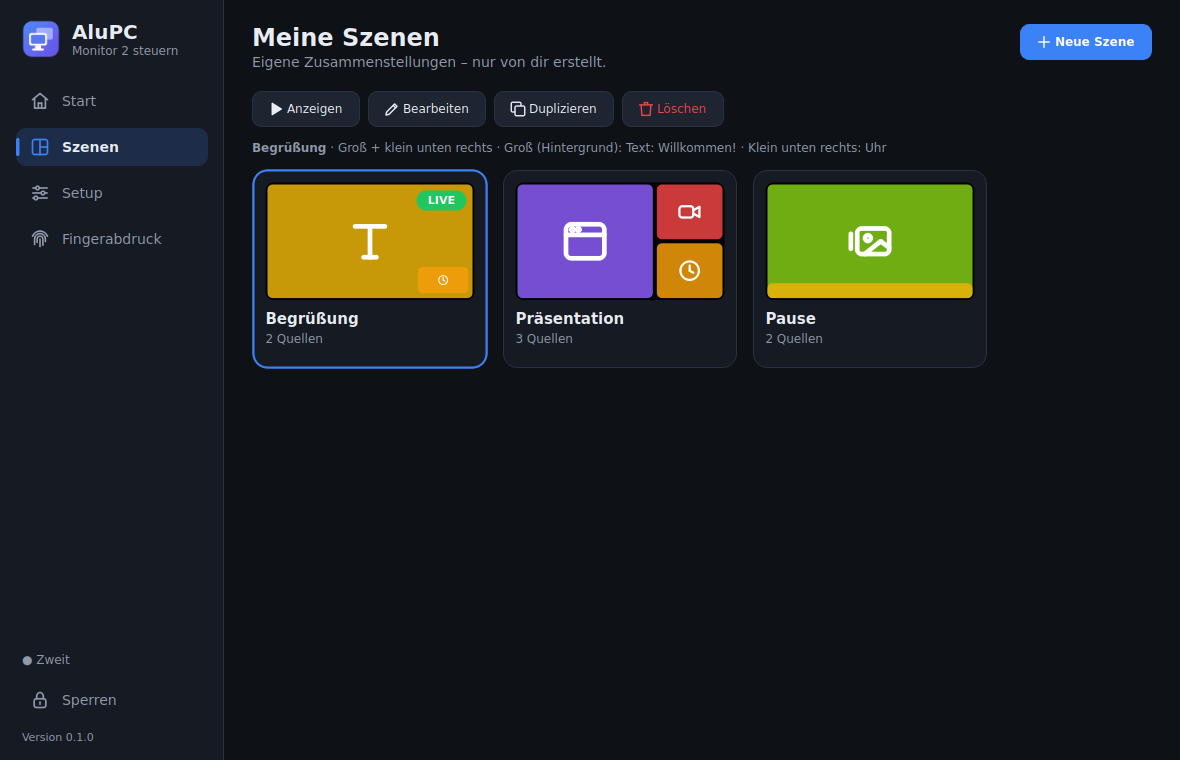
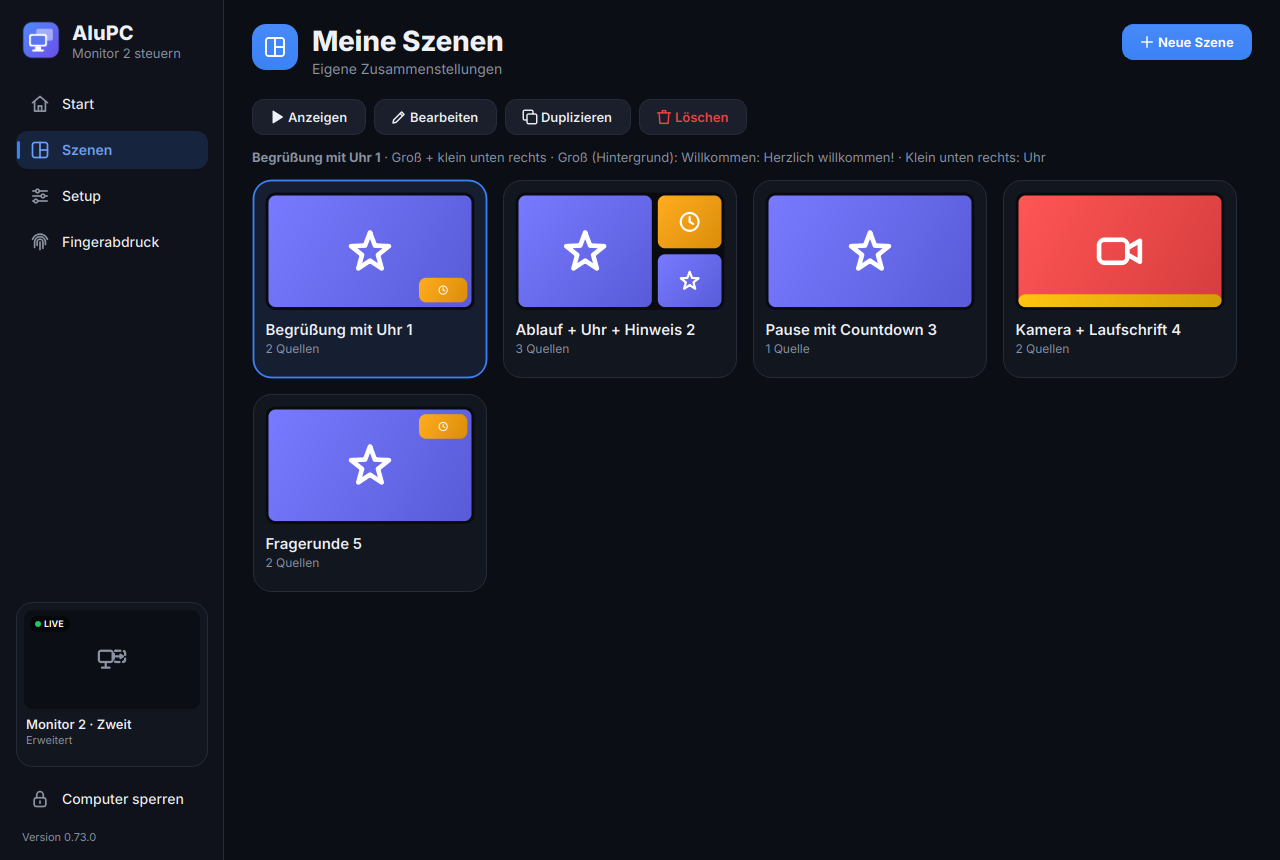
[release] 0.74.0: Design-Tour durch alle Seiten, Vorlagen und Szenen im neuen Stil
Claude-Session: https://claude.ai/code/session_0112hkB5sXPirJfFc6RfbKoD

diff --git a/alupc/ui/templates_dialog.py b/alupc/ui/templates_dialog.py
@@ -48,21 +48,39 @@ HEADER = ("kategorie", "")
 
 
 def badge_image(img: QImage) -> None:
-    """Kleines „✦ ANIMIERT“-Schild oben links aufs Vorschaubild."""
+    """Kleines „✦“-Schild unten rechts aufs Vorschaubild (verdeckt keine Überschrift)."""
     p = QPainter(img)
     p.setRenderHint(QPainter.Antialiasing)
     font = QFont()
-    font.setPixelSize(10)
+    font.setPixelSize(9)
     font.setBold(True)
     p.setFont(font)
     text = "✦ ANIMIERT"
     w = p.fontMetrics().horizontalAdvance(text) + 12
+    x, y = img.width() - w - 6, img.height() - 22
     p.setPen(Qt.NoPen)
-    p.setBrush(QColor(0, 0, 0, 170))
-    p.drawRoundedRect(6, 6, w, 18, 9, 9)
+    p.setBrush(QColor(0, 0, 0, 150))
+    p.drawRoundedRect(x, y, w, 16, 8, 8)
     p.setPen(QColor("#fde68a"))
-    p.drawText(6, 6, w, 18, Qt.AlignCenter, text)
+    p.drawText(x, y, w, 16, Qt.AlignCenter, text)
     p.end()
+
+
+def round_image(img: QImage, radius: float = 12) -> QImage:
+    """Vorschaubild mit runden Ecken (passt zu den Karten im Rest von AluPC)."""
+    from PySide6.QtCore import QRectF
+    from PySide6.QtGui import QPainterPath
+
+    out = QImage(img.size(), QImage.Format_ARGB32_Premultiplied)
+    out.fill(Qt.transparent)
+    p = QPainter(out)
+    p.setRenderHint(QPainter.Antialiasing)
+    path = QPainterPath()
+    path.addRoundedRect(QRectF(0, 0, img.width(), img.height()), radius, radius)
+    p.setClipPath(path)
+    p.drawImage(0, 0, img)
+    p.end()
+    return out
 
 
 def header_image(title: str, count: int) -> QImage:
@@ -101,7 +119,7 @@ class TemplatesDialog(QDialog):
         self.controller = controller
         self.config = controller.config
         self.setWindowTitle("Neue Szene")
-        self.resize(1080, 700)
+        self.resize(1180, 740)
         lay = QVBoxLayout(self)
         lay.setContentsMargins(24, 20, 24, 18)
         lay.setSpacing(12)
@@ -139,7 +157,8 @@ class TemplatesDialog(QDialog):
         blank.setData(Qt.UserRole, EMPTY)
         blank.setData(Qt.UserRole + 1, "")
         blank.setData(Qt.UserRole + 2, "leer")
-        blank.setIcon(QIcon(QPixmap.fromImage(render_scene_preview(new_scene("Leer"), THUMB.width(), THUMB.height()))))
+        blank.setIcon(QIcon(QPixmap.fromImage(round_image(render_scene_preview(new_scene("Leer"), THUMB.width(),
+                                                                              THUMB.height())))))
         self.list.addItem(blank)
         entries = [("scene", k, v[0], v[1], TEMPLATE_CATEGORIES.get(k, "")) for k, v in SCENE_TEMPLATES.items()]
         entries += [("design", k, v[0], v[1], CATEGORIES.get(k, "")) for k, v in DESIGNS.items()]
@@ -172,14 +191,15 @@ class TemplatesDialog(QDialog):
                 render_scene_preview(build_template(key, {}), THUMB.width(), THUMB.height())
             if animated:
                 badge_image(img)
-            item.setIcon(QIcon(QPixmap.fromImage(img)))
+            item.setIcon(QIcon(QPixmap.fromImage(round_image(img))))
             self.list.addItem(item)
-        body.addWidget(self.list, 3)
+        body.addWidget(self.list, 5)
 
         side = QWidget()
         side.setObjectName("Card")
         side.setAttribute(Qt.WA_StyledBackground, True)
-        side.setMinimumWidth(320)
+        side.setMinimumWidth(340)
+        side.setMaximumWidth(380)
         col = QVBoxLayout(side)
         col.setContentsMargins(16, 16, 16, 16)
         self.heading = QLabel()
@@ -212,7 +232,7 @@ class TemplatesDialog(QDialog):
         col.addLayout(form)
         col.addStretch(1)
         col.addWidget(self.next_btn)
-        body.addWidget(side, 2)
+        body.addWidget(side, 0)
         lay.addLayout(body, 1)
 
         self._redraw = QTimer(self, singleShot=True, interval=150)

diff --git a/alupc/ui/widgets.py b/alupc/ui/widgets.py
@@ -869,21 +869,22 @@ def paint_scene_thumb(p: QPainter, rect: QRectF, scene: dict | None, layout: str
     t = theme.current()
     p.save()
     p.setRenderHint(QPainter.Antialiasing)
+    # ruhiger Rahmen statt hartem Schwarz: Szenen-Hintergrund leicht in die Kartenfarbe gemischt
     bg = QColor((scene or {}).get("background", "#000000")) if scene else QColor(t.surface2)
-    if scene is None:
-        bg = t.mix(t.surface2, t.border, 0.5)
-    p.fillPath(rounded(rect, 8), bg)
+    bg = t.mix(bg.name(), t.surface2, 0.35 if scene else 0.5)
+    p.fillPath(rounded(rect, 10), bg)
     slots = (scene or {}).get("slots", [])
     lay = layout or (scene or {}).get("layout", "vollbild")
     for i, (x, y, w, h, _name) in enumerate(layout_slots(lay)):
         cell = QRectF(rect.left() + x * rect.width(), rect.top() + y * rect.height(),
-                      w * rect.width(), h * rect.height()).adjusted(2, 2, -2, -2)
+                      w * rect.width(), h * rect.height()).adjusted(3, 3, -3, -3)
         slot = slots[i] if i < len(slots) else None
         if slot:
             color = QColor(theme.SOURCE_COLORS.get(slot.get("type"), t.muted))
-            fill = QColor(color)
-            fill.setAlphaF(0.85)
-            p.fillPath(rounded(cell, 5), fill)
+            fill = QLinearGradient(cell.topLeft(), cell.bottomRight())
+            fill.setColorAt(0, color.lighter(112))
+            fill.setColorAt(1, color.darker(112))
+            p.fillPath(rounded(cell, 7), fill)
             side = min(cell.width(), cell.height()) * 0.45
             if side >= 8:
                 icons.paint(p, icons.SOURCE_ICONS.get(slot.get("type"), "monitor"),
@@ -894,7 +895,7 @@ def paint_scene_thumb(p: QPainter, rect: QRectF, scene: dict | None, layout: str
             color = QColor(palette[i % 4]) if numbers else QColor(t.muted)
             fill = QColor(color)
             fill.setAlphaF(0.85 if numbers else 0.18)
-            p.fillPath(rounded(cell, 5), fill)
+            p.fillPath(rounded(cell, 7), fill)
             if numbers and min(cell.width(), cell.height()) > 12:
                 p.setPen(QColor("#ffffff"))
                 p.setFont(font(9, QFont.Bold))
@@ -902,7 +903,7 @@ def paint_scene_thumb(p: QPainter, rect: QRectF, scene: dict | None, layout: str
             elif not numbers:
                 pen = QPen(QColor(t.muted), 1, Qt.DashLine)
                 p.setPen(pen)
-                p.drawPath(rounded(cell, 5))
+                p.drawPath(rounded(cell, 7))
     p.restore()
 
 
@@ -929,10 +930,14 @@ class SceneCard(HoverMixin, QAbstractButton):
         p = QPainter(self)
         p.setRenderHint(QPainter.Antialiasing)
         r = QRectF(self.rect()).adjusted(1.5, 1.5, -1.5, -1.5)
-        p.fillPath(rounded(r, 14), t.mix(t.surface, t.surface2, 0.9 * self._hover))
-        border = QColor(t.accent) if self.isChecked() else QColor(t.border)
-        p.setPen(QPen(border, 2 if self.isChecked() else 1))
-        p.drawPath(rounded(r, 14))
+        p.fillPath(rounded(r, 18), t.mix(t.surface, t.surface2, 0.6 * self._hover))
+        if self.isChecked():
+            tint = QColor(t.accent)
+            tint.setAlphaF(0.08)
+            p.fillPath(rounded(r, 18), tint)
+        border = QColor(t.accent) if self.isChecked() else t.mix(t.border, t.accent, 0.4 * self._hover)
+        p.setPen(QPen(border, 1.8 if self.isChecked() else 1))
+        p.drawPath(rounded(r, 18))
         thumb = QRectF(r.left() + 12, r.top() + 12, r.width() - 24, (r.width() - 24) * 9 / 16)
         paint_scene_thumb(p, thumb, self.scene)
         p.setPen(QColor(t.text))

diff --git a/alupc/ui/theme.py b/alupc/ui/theme.py
@@ -308,7 +308,11 @@ QCheckBox::indicator:checked {{ background: {grad}; border-color: transparent;
 QListWidget {{ background: {t.surface}; border: 1px solid {t.border}; border-radius: 12px; padding: 4px; }}
 QListWidget::item {{ padding: 7px 8px; border-radius: 8px; }}
 QListWidget::item:hover {{ background: {hover}; }}
-QListWidget::item:selected {{ background: {t.soft(a1, 0.26)}; color: {t.text}; }}
+QListWidget::item:selected {{ background: {t.soft(a1, 0.16 if t.dark else 0.10)}; color: {t.text}; }}
+QListWidget::indicator, QTreeWidget::indicator {{ width: 17px; height: 17px; border-radius: 5px;
+    border: 1px solid {t.border}; background: {t.surface2}; }}
+QListWidget::indicator:checked, QTreeWidget::indicator:checked {{ background: {grad}; border-color: transparent;
+    {f'image: url("{check_image}");' if check_image else ''} }}
 QListWidget#SetupNav {{ background: {card}; border: 1px solid {edge}; border-radius: 18px; padding: 6px; }}
 QListWidget#SetupNav::item {{ padding: 8px 10px; margin: 1px 0; border-radius: 11px; border-left: 3px solid transparent; }}
 QListWidget#SetupNav::item:selected {{ background: {t.soft(a1, 0.16 if t.dark else 0.10)}; border-left: 3px solid {a1};
@@ -316,7 +320,7 @@ QListWidget#SetupNav::item:selected {{ background: {t.soft(a1, 0.16 if t.dark el
 
 QTabWidget::pane {{ border: 1px solid {edge}; border-radius: 12px; top: -1px; background: {t.surface}; }}
 QTabBar::tab {{ background: transparent; padding: 8px 14px; margin-right: 4px; border-radius: 9px; color: {t.muted}; }}
-QTabBar::tab:selected {{ background: {t.soft(a1, 0.22)}; color: {t.text}; border-bottom: 2px solid {a2}; }}
+QTabBar::tab:selected {{ background: {t.soft(a1, 0.14)}; color: {t.text}; border-bottom: 2px solid {a1}; }}
 
 QScrollArea {{ background: transparent; border: none; }}
 QScrollArea > QWidget > QWidget {{ background: transparent; }}
@@ -331,7 +335,7 @@ QScrollBar::add-page, QScrollBar::sub-page {{ background: none; }}
 
 QSlider::groove:horizontal {{ height: 6px; background: {t.surface2}; border-radius: 3px; }}
 QSlider::sub-page:horizontal {{ background: {grad_h}; border-radius: 3px; }}
-QSlider::handle:horizontal {{ background: #ffffff; border: 2px solid {a2}; width: 14px; height: 14px;
+QSlider::handle:horizontal {{ background: #ffffff; border: 2px solid {a1}; width: 14px; height: 14px;
     margin: -6px 0; border-radius: 9px; }}
 
 QProgressBar {{ background: {t.surface2}; border: none; border-radius: 5px; height: 10px; text-align: center; }}

diff --git a/alupc/ui/setup_page.py b/alupc/ui/setup_page.py
@@ -566,6 +566,9 @@ class SetupPage(QWidget):
 
         tr = self.config["transition"]
         self.transition_combo = QComboBox()
+        # lange Einträge („Zoom (altes Bild …)“) dürfen die Karte nicht breiter machen
+        self.transition_combo.setSizeAdjustPolicy(QComboBox.AdjustToMinimumContentsLengthWithIcon)
+        self.transition_combo.setMinimumContentsLength(12)
         for key, label in TRANSITIONS.items():
             self.transition_combo.addItem(label, key)
         current = "schnitt" if not a.get("fade", True) else tr.get("type", "blende")
@@ -602,6 +605,8 @@ class SetupPage(QWidget):
         from .. import perf
 
         power = QComboBox()
+        power.setSizeAdjustPolicy(QComboBox.AdjustToMinimumContentsLengthWithIcon)
+        power.setMinimumContentsLength(12)
         for key, label in perf.MODES.items():
             power.addItem(label, key)
         power.setCurrentIndex(max(0, power.findData(a.get("performance", "auto"))))
@@ -1010,7 +1015,7 @@ class SetupPage(QWidget):
                 self.config["sounds"] = new
 
             picker.changed.connect(save_event)
-            form.addRow(label + ":", picker)
+            form.addRow(label.replace("&", "&&") + ":", picker)
             self.sound_pickers[event] = picker
         more = QLabel("Eigene Töne: WAV, MP3, OGG, FLAC, M4A")
         more.setObjectName("Muted")
@@ -1028,7 +1033,7 @@ class SetupPage(QWidget):
         for action, label in HOTKEY_LABELS.items():
             btn = HotkeyButton(self.config["hotkeys"].get(action, ""), label)
             btn.changed.connect(lambda seq, a=action: self._save_hotkey(a, seq))
-            form.addRow(label + ":", btn)
+            form.addRow(label.replace("&", "&&") + ":", btn)
             self.hotkey_edits[action] = btn
         more = QLabel("Szenen: im Szenen-Editor · Eigene Kacheln: „Startseite anpassen“")
         more.setWordWrap(True)

diff --git a/alupc/ui/finger_shortcuts_dialog.py b/alupc/ui/finger_shortcuts_dialog.py
@@ -46,7 +46,7 @@ class FingerShortcutsDialog(QDialog):
                 combo.addItem(current[slot], current[slot])  # z. B. gelöschte Szene: nicht still verlieren
             combo.setCurrentIndex(max(0, combo.findData(current.get(slot, ""))))
             self.combos[slot] = combo
-            form.addRow(f"{person} · {finger}", combo)
+            form.addRow(f"{person} · {finger}".replace("&", "&&"), combo)
         if not fingers:
             empty = QLabel("Noch keine Finger angelernt (Seite Fingerabdruck → Finger anlernen).")
             empty.setWordWrap(True)

diff --git a/alupc/ui/overlay_dialog.py b/alupc/ui/overlay_dialog.py
@@ -545,7 +545,7 @@ class OverlayDialog(QDialog):
             edit = QLineEdit(it.get(key, ""))
             edit.setPlaceholderText(placeholder)
             edit.textChanged.connect(lambda v: self._set(iid, **{key: v}))
-            form.addRow(label, edit)
+            form.addRow(label.replace("&", "&&"), edit)
 
         def check(key: str, label: str, default: bool = False):
             box = QCheckBox(label)

diff --git a/alupc/ui/sync_page.py b/alupc/ui/sync_page.py
@@ -62,7 +62,7 @@ class SectionPicker(QDialog):
 def backup_group(page) -> QGroupBox:
     """Einstellungen in eine Datei sichern bzw. daraus laden (auch nur die Startseite)."""
     config = page.config
-    box = QGroupBox("Sichern & Laden")
+    box = QGroupBox("Sichern && Laden")
     lay = QVBoxLayout(box)
     info = QLabel("Alle Einstellungen als Datei · Sicherung oder zweiter PC")
     info.setWordWrap(True)

diff --git a/alupc/ui/hardware_page.py b/alupc/ui/hardware_page.py
@@ -293,7 +293,7 @@ class HardwarePage(QWidget):
 
     # ================================================================ Lüfter
     def _fan_box(self) -> QGroupBox:
-        box = QGroupBox("Lüfter & Temperaturen")
+        box = QGroupBox("Lüfter && Temperaturen")
         self.fan_lay = QVBoxLayout(box)
         self.fan_status = Banner("", "info")
         self.fan_lay.addWidget(self.fan_status)

diff --git a/alupc/ui/extras_dialogs.py b/alupc/ui/extras_dialogs.py
@@ -82,7 +82,7 @@ class WheelDialog(QDialog):
         row = QHBoxLayout()
         save = button("Speichern", "check")
         save.clicked.connect(self.accept)
-        spin = button("Speichern & zeigen", "monitor", primary=True)
+        spin = button("Speichern && zeigen", "monitor", primary=True)
         spin.clicked.connect(self._spin)
         row.addStretch(1)
         row.addWidget(save)

diff --git a/alupc/ui/screensaver_settings.py b/alupc/ui/screensaver_settings.py
@@ -127,7 +127,7 @@ class ScreensaverSettings(QGroupBox):
         for items in rows.values():
             for label, field in items:
                 if id(field) not in added:
-                    form.addRow(label, field)
+                    form.addRow(label.replace("&", "&&"), field)
                     added.add(id(field))
         test_row = QHBoxLayout()
         test_row.addWidget(test)

diff --git a/alupc/__init__.py b/alupc/__init__.py
@@ -1,4 +1,4 @@
 """AluPC – Steuerprogramm für einen zweiten Monitor (Kubuntu und Windows 11)."""
 
-__version__ = "0.73.0"
+__version__ = "0.74.0"
 APP_NAME = "AluPC"

diff --git a/packaging/RELEASE_NOTES.md b/packaging/RELEASE_NOTES.md
@@ -8,7 +8,20 @@
 | **Kubuntu / Ubuntu** (22.04, 24.04 und neuer) | `alupc_…_amd64.deb` | `sudo apt install ./alupc_…_amd64.deb` – danach im Startmenü |
 | Linux (x86_64) | `AluPC-linux-x86_64-….tar.gz` | ohne Installation: entpacken, `AluPC/AluPC` starten |
 
-### Neu in dieser Version (0.73.0)
+### Neu in dieser Version (0.74.0)
+- **Design-Tour durch alle Seiten und Fenster** – alles im neuen, ruhigen Stil:
+  - **Szenen:** Vorschauen weich eingefärbt mit runden Feldern statt knalliger Flächen mit harten schwarzen Rändern;
+    Szenen-Karten flacher mit runden Ecken.
+  - **Vorlagen („Neue Szene“):** drei Spalten statt zwei, Vorschaubilder mit runden Ecken, das Etikett „✦ ANIMIERT“
+    sitzt unten rechts und verdeckt keine Überschriften mehr.
+  - **Listen mit Häkchen** (z. B. „Startseite anpassen“): runde Häkchen-Kästchen wie im Rest von AluPC.
+  - **Reiter, Schieberegler, Setup-Liste:** Markierung in der Akzentfarbe statt Lila.
+  - **Setup → Darstellung** ragte rechts aus der Karte (sehr lange Einträge in der Liste „Szenenwechsel“) – behoben.
+  - **„&“ in Texten** erschien als Unterstrich („Speichern_zeigen“, „Sichern_Laden“, „Lüfter_Temperaturen“,
+    „Zeigen _Zeichnen“ bei den Tastenkürzeln) – behoben.
+- GitHub-Seite: neue Bilder von Startseite, Szenen, Setup, Fingerabdruck und „Startseite anpassen“.
+
+### Neu in Version 0.73.0
 - **Neues, frisches Design:** Startseite mit Karten wie ein modernes Kontrollzentrum – Symbol oben, Titel unten,
   mehr Karten pro Zeile. Was gerade läuft, ist **ganz in seiner Farbe** eingefärbt. Ruhige, neutrale Farben (kein
   Lila-Schimmer mehr), flache Karten mit feinem Rand, schlichte Bereichs-Überschriften, Seitenleiste mit ruhiger
